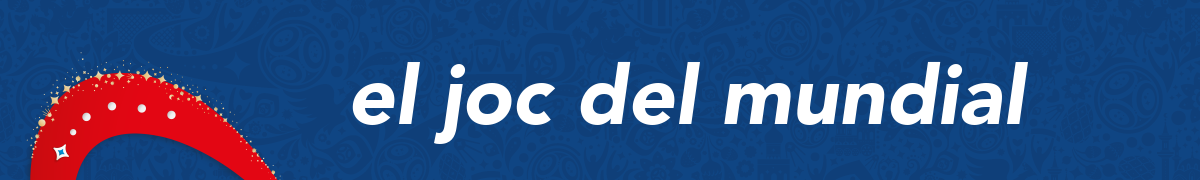
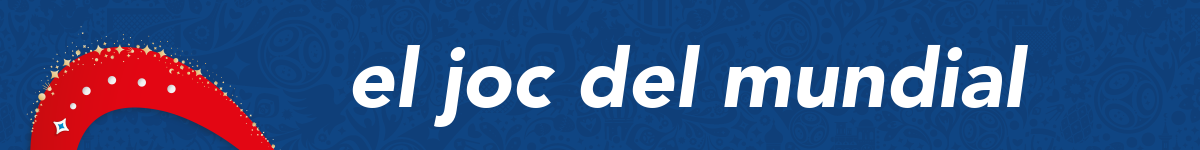
Ara ja guarda els pronòstics

diff --git a/mundial2018/static/css/style.css b/mundial2018/static/css/style.css
@@ -22,7 +22,7 @@ margin-top: 5px;
 }
 
 #cap{
-height : 180px;
+height : 150px;
 width: 1200px;
 text-align: center;
 border-bottom: 1px solid black;

diff --git a/mundial2018/joc/models.py b/mundial2018/joc/models.py
@@ -109,7 +109,7 @@ class PronosticPartit(models.Model):
         Equip, related_name='equip1_pronostic', null=True, on_delete=models.CASCADE)
     equip2 = models.ForeignKey(
         Equip, related_name='equip2_pronostic', null=True, on_delete=models.CASCADE)
-    empat = models.PositiveSmallIntegerField(null=True)
+    empat = models.PositiveSmallIntegerField(null=True, blank=True, default=None)
 
     def signe(self):
         if self.gols1 > self.gols2:

diff --git a/mundial2018/joc/migrations/0002_auto_20180412_2149.py b/mundial2018/joc/migrations/0002_auto_20180412_2149.py
@@ -1,0 +1,18 @@
+# Generated by Django 2.0 on 2018-04-12 21:49
+
+from django.db import migrations, models
+
+
+class Migration(migrations.Migration):
+
+    dependencies = [
+        ('joc', '0001_initial'),
+    ]
+
+    operations = [
+        migrations.AlterField(
+            model_name='pronosticpartit',
+            name='empat',
+            field=models.PositiveSmallIntegerField(blank=True, default=None, null=True),
+        ),
+    ]
